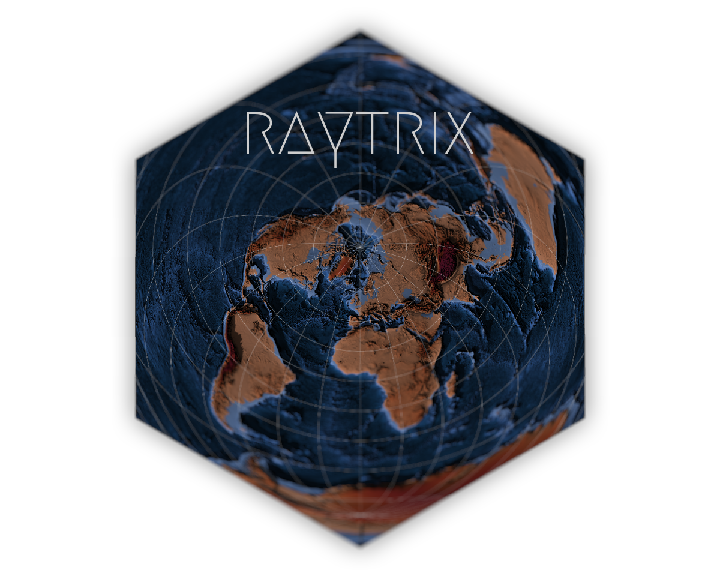
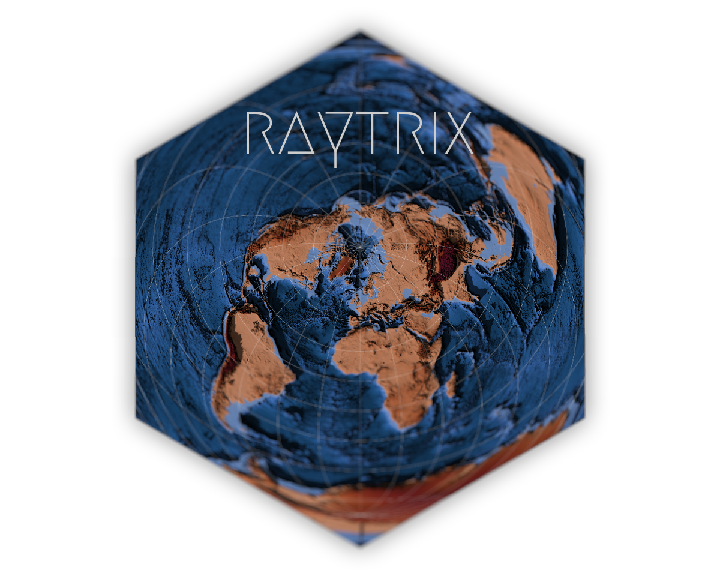
RE update

Changed region(s): [[0.1833, 0.0625, 0.825, 0.9375]]

diff --git a/README.md b/README.md
@@ -47,7 +47,14 @@ i.e. matrix for the `topo_matrix` and 4 dimensional array for the
     topo_matrix(res, src='aws', ...)  
     map_drape(res, src='esri.aerial', alpha=1 ...) # many options now available here - need to check in on API Key requirements.
 
-**Example**
+**Helplers:** Some additional helpers for easing interoperability with
+other spatial and plotting libraries (More to come here:
+
+    texture_to_brick() #  converts a rayshader texture to a raster with the correct extent and crs.
+
+**Examples**
+
+Simple map drape over a DEM.
 
 ``` r
 library(raytrix)
@@ -59,25 +66,37 @@ library(rayshader)
 set_canvas_centroid(.lat, .long, radius = 7000)
 get_canvas()$extent
 
-tc <- topo_matrix(25, src='aws')
-ov <- map_drape(5, src='wms_virtualearth', resample = 'CubicSpline')
+tc <- topo_matrix(20)
+ov <- map_drape(5)
 
-# plot without shading
 plot_3d(ov, tc, zscale=25*0.75,  windowsize = 1000,
-        theta=150, phi=25, zoom=0.7, fov=50)
+        theta=150, phi=45, zoom=0.7, fov=50)
 render_snapshot()
-rgl::rgl.close()
-# build in rayshader shading tools
-texture <- ov %>%
-  add_shadow(ray_shade(tc, zscale=25*0.75, sunangle=30, sunaltitude= 25,
-                       multicore = T), 0.05) %>%
-  add_shadow(texture_shade(tc, detail=0.8, contrast = 10, brightness = 15),0)
+```
 
-plot_3d(texture, tc, zscale=25*0.75,  windowsize = 1000,
-        theta=150, phi=25, zoom=0.7, fov=50)
+![](man/figures/MtStHelens-1.png)<!-- -->
 
-render_snapshot()
+``` r
 rgl::rgl.close()
 ```
 
-<img src="man/figures/MtStHelens-1.png" style="display: block; margin: auto;" /><img src="man/figures/MtStHelens-2.png" style="display: block; margin: auto;" />
+Add some shading to the scene with {rayshader}
+
+``` r
+# build in rayshader shading tools
+texture <- ov%>%
+  add_shadow(ray_shade(tc, zscale=20*0.75, sunangle=700, sunaltitude= 30,
+                       multicore = T), 0) %>%
+  add_shadow(texture_shade(tc, detail=0.6, contrast = 5, brightness = 10),0)
+
+plot_3d(texture, tc, zscale=25*0.75,  windowsize = 1000,
+        theta=150, phi=45, zoom=0.7, fov=50)
+
+render_snapshot()
+```
+
+![](man/figures/MtStHelensShade-1.png)<!-- -->
+
+``` r
+rgl::rgl.close()
+```
